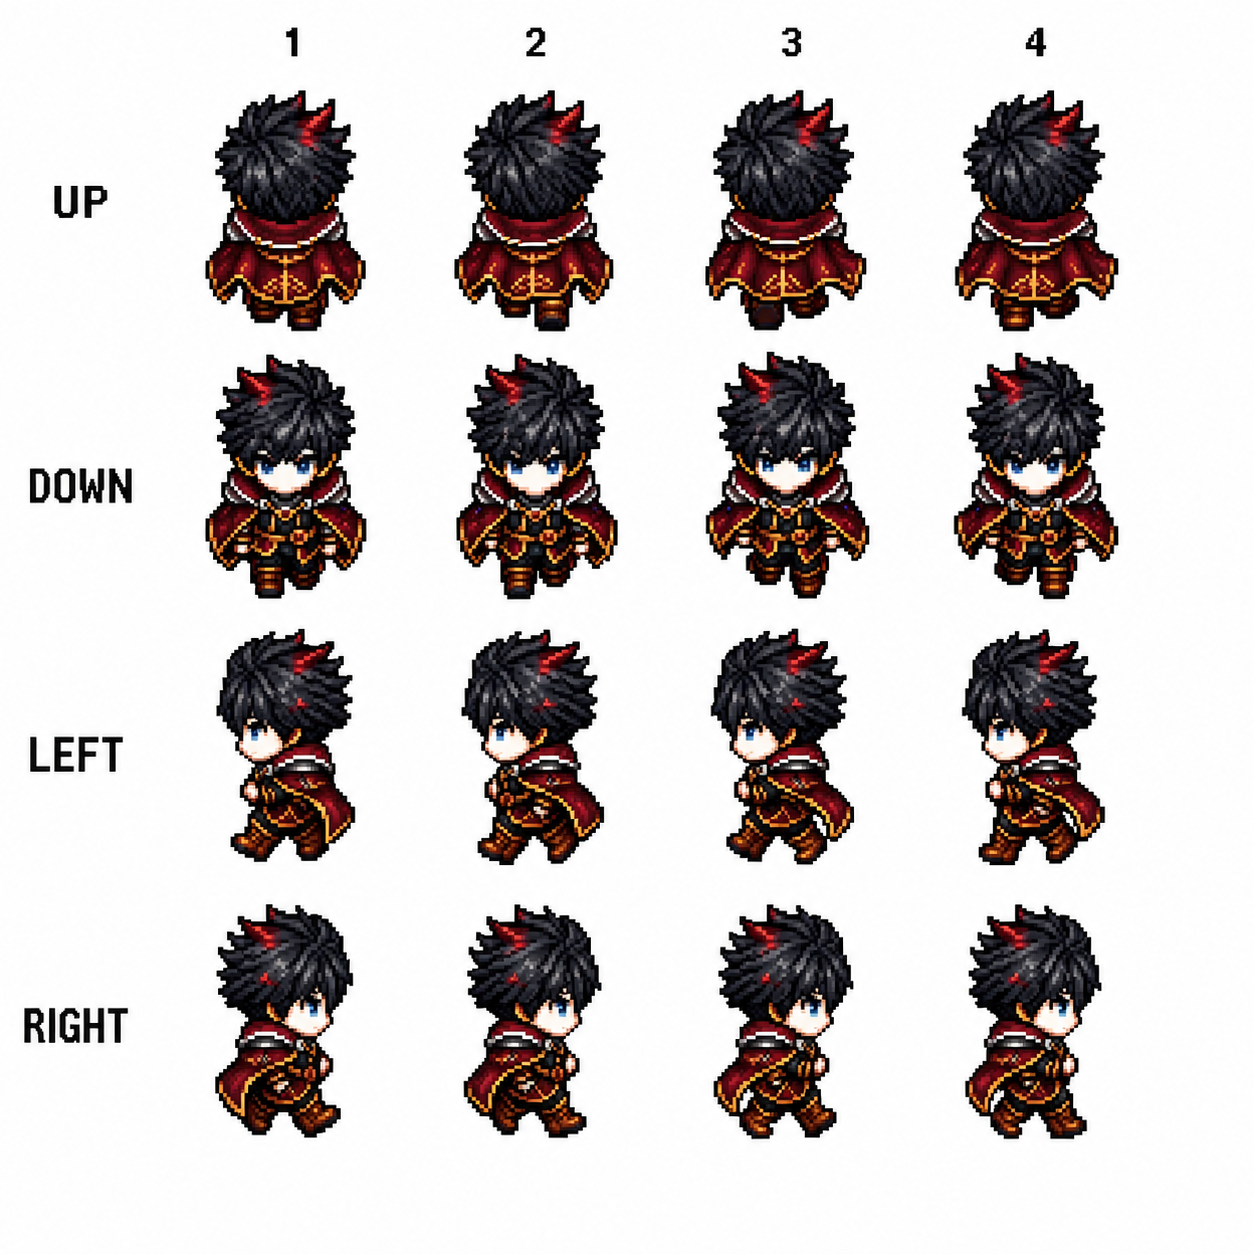
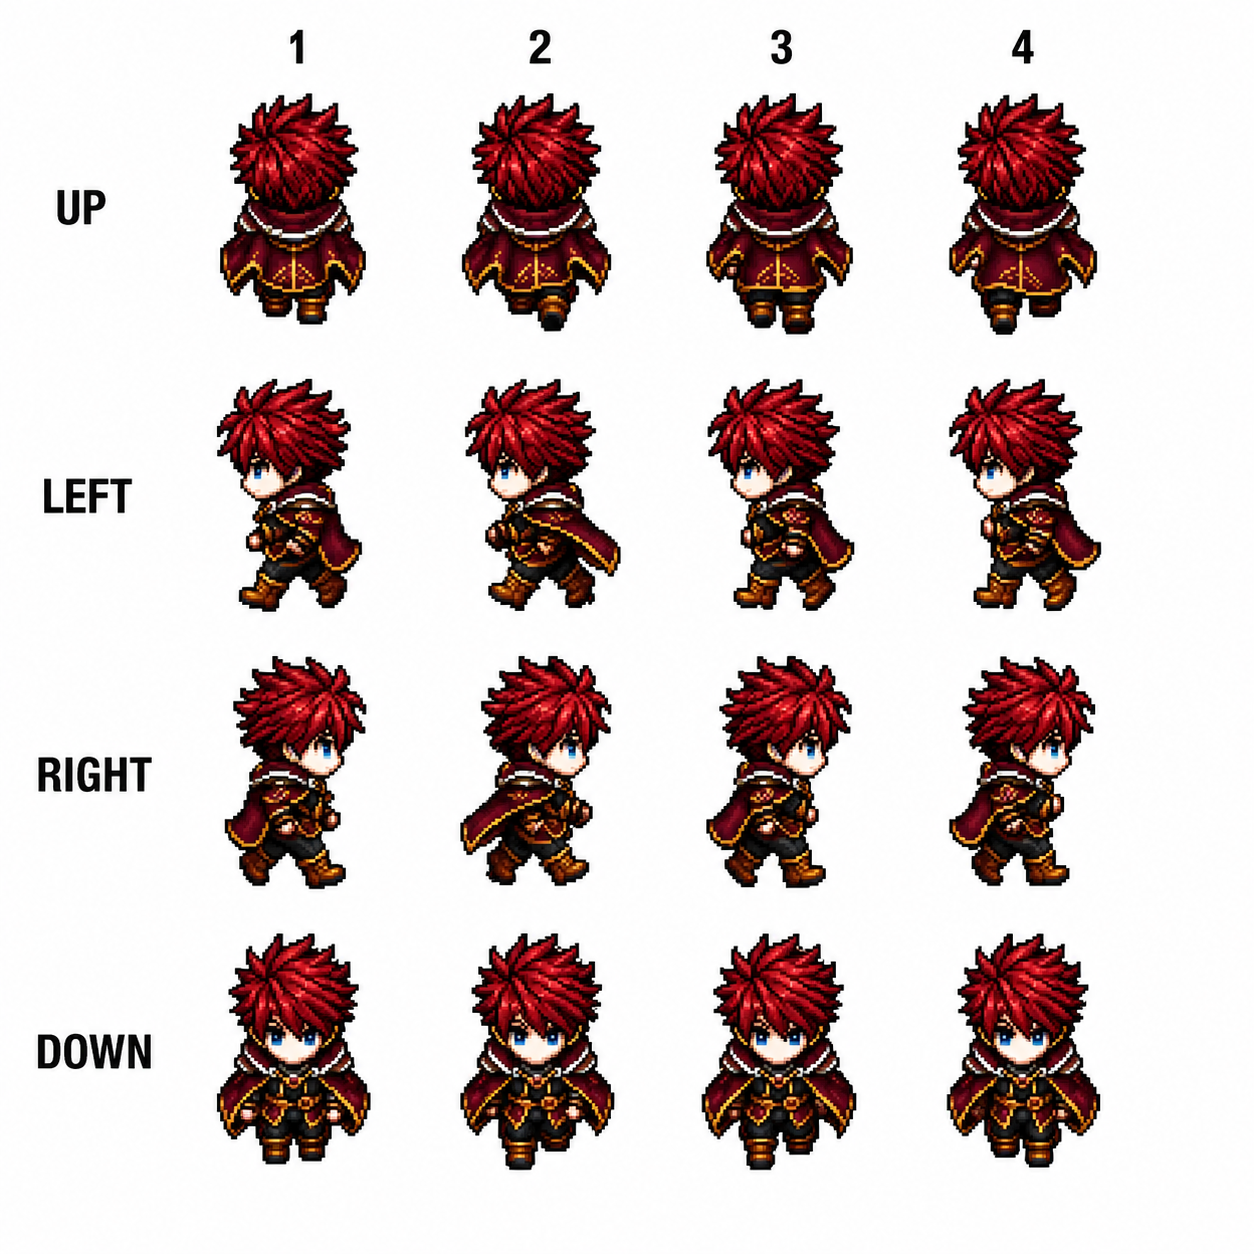
feat(expedition): player2 challenger sprite — self-calibrating walk-sheet slicer; tighter tree/house colliders

diff --git a/expedition.html b/expedition.html
@@ -2527,19 +2527,19 @@
       }
       for (const obj of mapData.objects) {
         if (obj.type === 'tree') {
-          // Tree collider TIGHTENED Dec 2026 to match the visible foliage
-          // outline (was just the trunk, which let the player walk INTO the
-          // canopy). Probed obj_tree.png alpha bbox: foliage spans ~87% of
-          // the sprite (6-8% transparent margin per side). Collider uses the
-          // same insets so the player bumps the entire visible tree.
-          const TREE_INSET_X = Math.round(TREE_W * 0.065);
-          const TREE_INSET_T = Math.round(TREE_H * 0.055);
-          const TREE_INSET_B = Math.round(TREE_H * 0.077);
+          // Tree collider — trunk + dense lower-canopy core only: a small
+          // bottom-centred box that sits entirely inside the visible pixels.
+          // A round canopy in a full-size box collides in its transparent
+          // corners ("invisible spread"); the airy upper canopy is instead
+          // walk-behindable (z-sort draws it over the player).
+          const TREE_COL_W = Math.round(TREE_W * 0.46);
+          const TREE_COL_H = Math.round(TREE_H * 0.32);
+          const TREE_COL_B = Math.round(TREE_H * 0.06);   // gap below the trunk base
           out.push({
-            x: obj.x * TILE_SIZE + TREE_INSET_X,
-            y: obj.y * TILE_SIZE + TREE_INSET_T,
-            w: TREE_W - TREE_INSET_X * 2,
-            h: TREE_H - TREE_INSET_T - TREE_INSET_B,
+            x: obj.x * TILE_SIZE + Math.round((TREE_W - TREE_COL_W) / 2),
+            y: obj.y * TILE_SIZE + TREE_H - TREE_COL_H - TREE_COL_B,
+            w: TREE_COL_W,
+            h: TREE_COL_H,
           });
         } else if (HOUSE_TYPES[obj.type]) {
           // Houses: collider traces the BUILDING OUTLINE Pokemon-style
@@ -2556,7 +2556,14 @@
           const cy = obj.y * TILE_SIZE + Math.round(dims.h * ins.t);
           const cw = Math.round(dims.w * (1 - ins.l - ins.r));
           const ch = Math.round(dims.h * (1 - ins.t - ins.b));
-          out.push({ x: cx, y: cy, w: cw, h: ch });
+          // Extra pull-in so the collider sits just inside the wall pixels
+          // rather than on the sprite's outer bbox — trims the slight
+          // "invisible spread". The top gets a bigger bite to clear the empty
+          // corners above a pitched/gabled roof.
+          const HX = Math.round(dims.w * 0.035);
+          const HT = Math.round(dims.h * 0.085);
+          const HB = Math.round(dims.h * 0.030);
+          out.push({ x: cx + HX, y: cy + HT, w: cw - HX * 2, h: ch - HT - HB });
         } else if (obj.type === 'ufo') {
           // UFO: collider = bottom half (landing struts area). Top half is
           // hull/dome, walk-behindable like a tree canopy.
@@ -2761,6 +2768,7 @@
       // Renamed to ..._player.png to match the rest of the assets/ folder convention
       // (character_player.png, character_voltyran.png, character_eurakeon.png, etc.).
       sheet: { src: '/assets/animation_walk_player.png', raw: true },
+      player2Sheet: { src: '/assets/animation_walk_player2.png', raw: true },
       // Player-2 jog sheet — drives the South Central encounter challenger.
       // Fly sprite sheet — same 4×4 layout, used while the player is in fly
       // mode (tap-then-hold B/Shift). Baked at CHAR_W_FLY × CHAR_H_FLY (wider
@@ -2923,6 +2931,7 @@
       // After all images load, slice both sprite sheets into frame canvases.
       if (onProgress) onProgress(0.92, 'Cutting frames…');
       ASSETS.charFrames     = sliceCharSheet(ASSETS.sheet);
+      ASSETS.player2Frames  = slicePlayer2Sheet(ASSETS.player2Sheet);
       ASSETS.flyFrames      = sliceFlySheet(ASSETS.flySheet);
       ASSETS.runFrames      = sliceRunSheet(ASSETS.runSheet);
       ASSETS.idleFrames     = sliceIdleSheet(ASSETS.idleSheet);
@@ -3023,6 +3032,93 @@
       // (v2 sheet has 4 distinct down-row poses — no synthesized mirror needed.
       // mirrorCanvas() is still defined below for future use if any direction
       // needs a single-frame source augmented into an alternating cycle.)
+      return result;
+    }
+
+    // Player-2 walk sheet — animation_walk_player2.png is a clean 4x4 grid
+    // (rows up / left / right / down, 4 frames each) with row labels baked
+    // into the sheet's left margin. This slicer locates the real sprite grid
+    // from the white gaps between cells (so the labels and any uneven spacing
+    // don't matter), then bakes every frame feet-anchored at CHAR_W x CHAR_H —
+    // rigged exactly like the player's own walk frames.
+    function slicePlayer2Sheet(sheetImg) {
+      const ROWDIRS = ['up', 'left', 'right', 'down'];
+      const result  = { up: [], left: [], right: [], down: [] };
+      const SW = sheetImg.naturalWidth  || sheetImg.width;
+      const SH = sheetImg.naturalHeight || sheetImg.height;
+      const sc = document.createElement('canvas');
+      sc.width = SW; sc.height = SH;
+      const sctx = sc.getContext('2d');
+      sctx.drawImage(sheetImg, 0, 0);
+      const px = sctx.getImageData(0, 0, SW, SH).data;
+      const isInk = (x, y) => {
+        const i = (y * SW + x) * 4;
+        return px[i] < 232 || px[i + 1] < 232 || px[i + 2] < 232;
+      };
+      // Ink counts down each column and across each row.
+      const colCount = new Array(SW).fill(0);
+      const rowCount = new Array(SH).fill(0);
+      for (let y = 0; y < SH; y++) {
+        for (let x = 0; x < SW; x++) {
+          if (isInk(x, y)) { colCount[x]++; rowCount[y]++; }
+        }
+      }
+      // Content blocks = runs of the profile above a small gap threshold.
+      function blocks(profile, gap, minSize) {
+        const res = []; let run = false, s = 0;
+        for (let i = 0; i < profile.length; i++) {
+          if (profile[i] > gap && !run) { run = true; s = i; }
+          else if (profile[i] <= gap && run) { run = false; if (i - s >= minSize) res.push([s, i - 1]); }
+        }
+        if (run && profile.length - s >= minSize) res.push([s, profile.length - 1]);
+        return res;
+      }
+      const widest = arr => arr.slice()
+        .sort((a, b) => (b[1] - b[0]) - (a[1] - a[0])).slice(0, 4)
+        .sort((a, b) => a[0] - b[0]);
+      const colBlk = widest(blocks(colCount, 25, 45));   // 4 sprite columns (drops the label column)
+      const rowBlk = widest(blocks(rowCount, 25, 45));   // 4 sprite rows
+      // Per-cell tight bounding box of the sprite.
+      const cells = []; let refH = 1;
+      for (let r = 0; r < 4; r++) {
+        cells.push([]);
+        for (let c = 0; c < 4; c++) {
+          const cb = colBlk[c] || [0, 0], rb = rowBlk[r] || [0, 0];
+          let bx0 = 1e9, by0 = 1e9, bx1 = -1, by1 = -1;
+          for (let y = rb[0]; y <= rb[1]; y++) {
+            for (let x = cb[0]; x <= cb[1]; x++) {
+              if (isInk(x, y)) {
+                if (x < bx0) bx0 = x; if (x > bx1) bx1 = x;
+                if (y < by0) by0 = y; if (y > by1) by1 = y;
+              }
+            }
+          }
+          const box = bx1 >= 0 ? { x0: bx0, y0: by0, x1: bx1, y1: by1 } : null;
+          cells[r].push(box);
+          if (box && box.y1 - box.y0 > refH) refH = box.y1 - box.y0;
+        }
+      }
+      // One uniform feet-anchored crop for every frame -> bake at CHAR_W x CHAR_H.
+      const FILL  = 0.88;
+      const cropH = refH / FILL;
+      const cropW = cropH * (CHAR_W / CHAR_H);
+      for (let r = 0; r < 4; r++) {
+        for (let c = 0; c < 4; c++) {
+          const cv = document.createElement('canvas');
+          cv.width = CHAR_W; cv.height = CHAR_H;
+          const cc = cv.getContext('2d');
+          cc.imageSmoothingEnabled = false;
+          const b = cells[r][c];
+          if (b) {
+            const cx = (b.x0 + b.x1) / 2;
+            const sx = cx - cropW / 2;
+            const sy = b.y1 + cropH * (1 - FILL) / 2 - cropH;
+            cc.drawImage(sc, sx, sy, cropW, cropH, 0, 0, CHAR_W, CHAR_H);
+            chromaKeyWhite(cv);
+          }
+          result[ROWDIRS[r]].push(cv);
+        }
+      }
       return result;
     }
 
@@ -3976,7 +4072,7 @@
         // 5 tiles, then chases them down and triggers the 1v1 battle overlay.
         // Spent after a battle; re-armed by resetEncounters() on region re-entry.
         id: 'challenger_p2',
-        framesKey: 'charFrames',
+        framesKey: 'player2Frames',
         walkOrder: WALK_ORDER,
         x: 20 * 32, y: 22 * 32,
         w: CHAR_W, h: CHAR_H,
@@ -7014,25 +7110,17 @@
           const npc = d.npc;
           if (screenX + npc.w < 0 || screenX > VIEWPORT_W) continue;
           if (screenY + npc.h < 0 || screenY > VIEWPORT_H) continue;
-          // The encounter challenger is rigged exactly like the player: when
-          // standing idle and facing the camera it uses the same forward idle
-          // portrait the player's own pose-0 idle uses. Walking — and idle in
-          // the other facings — already draws from charFrames just like the
-          // player, so no further special-casing is needed.
-          if (npc.isEncounter && npc.currentDir === 'idle' &&
-              npc.facing === 'down' && ASSETS.playerIdle) {
-            ctx.drawImage(ASSETS.playerIdle, screenX, screenY);
-          } else {
-            // Look up the NPC's frame set, then pick the current walk-cycle
-            // frame for its current facing via its walkOrder mapping.
-            const frameSet = ASSETS[npc.framesKey];
-            if (frameSet) {
-              const frames = frameSet[npc.facing];
-              const order  = npc.walkOrder[npc.facing];
-              if (frames && order) {
-                const sprite = frames[order[npc.animFrame]];
-                if (sprite) ctx.drawImage(sprite, screenX, screenY);
-              }
+          // Look up the NPC's frame set, then pick the current walk-cycle
+          // frame for its current facing via its walkOrder mapping. The
+          // encounter challenger draws from player2Frames here — sliced and
+          // baked the same way as the player's own walk frames.
+          const frameSet = ASSETS[npc.framesKey];
+          if (frameSet) {
+            const frames = frameSet[npc.facing];
+            const order  = npc.walkOrder[npc.facing];
+            if (frames && order) {
+              const sprite = frames[order[npc.animFrame]];
+              if (sprite) ctx.drawImage(sprite, screenX, screenY);
             }
           }
           // Cry balloon — drawn after the NPC sprite so it sits on top in z.